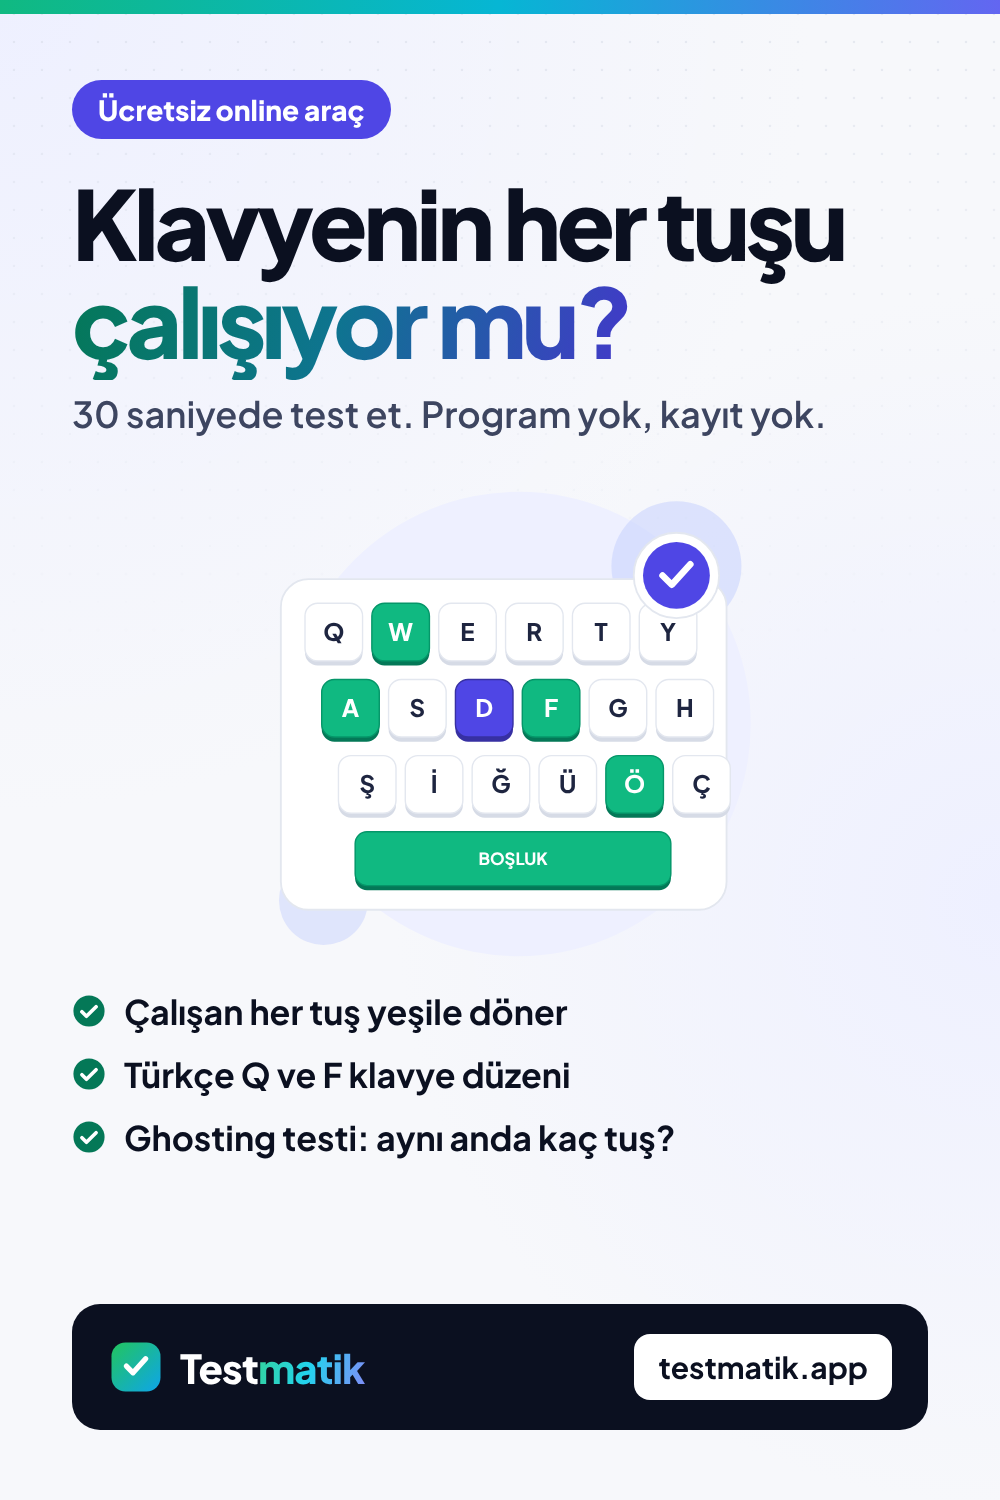
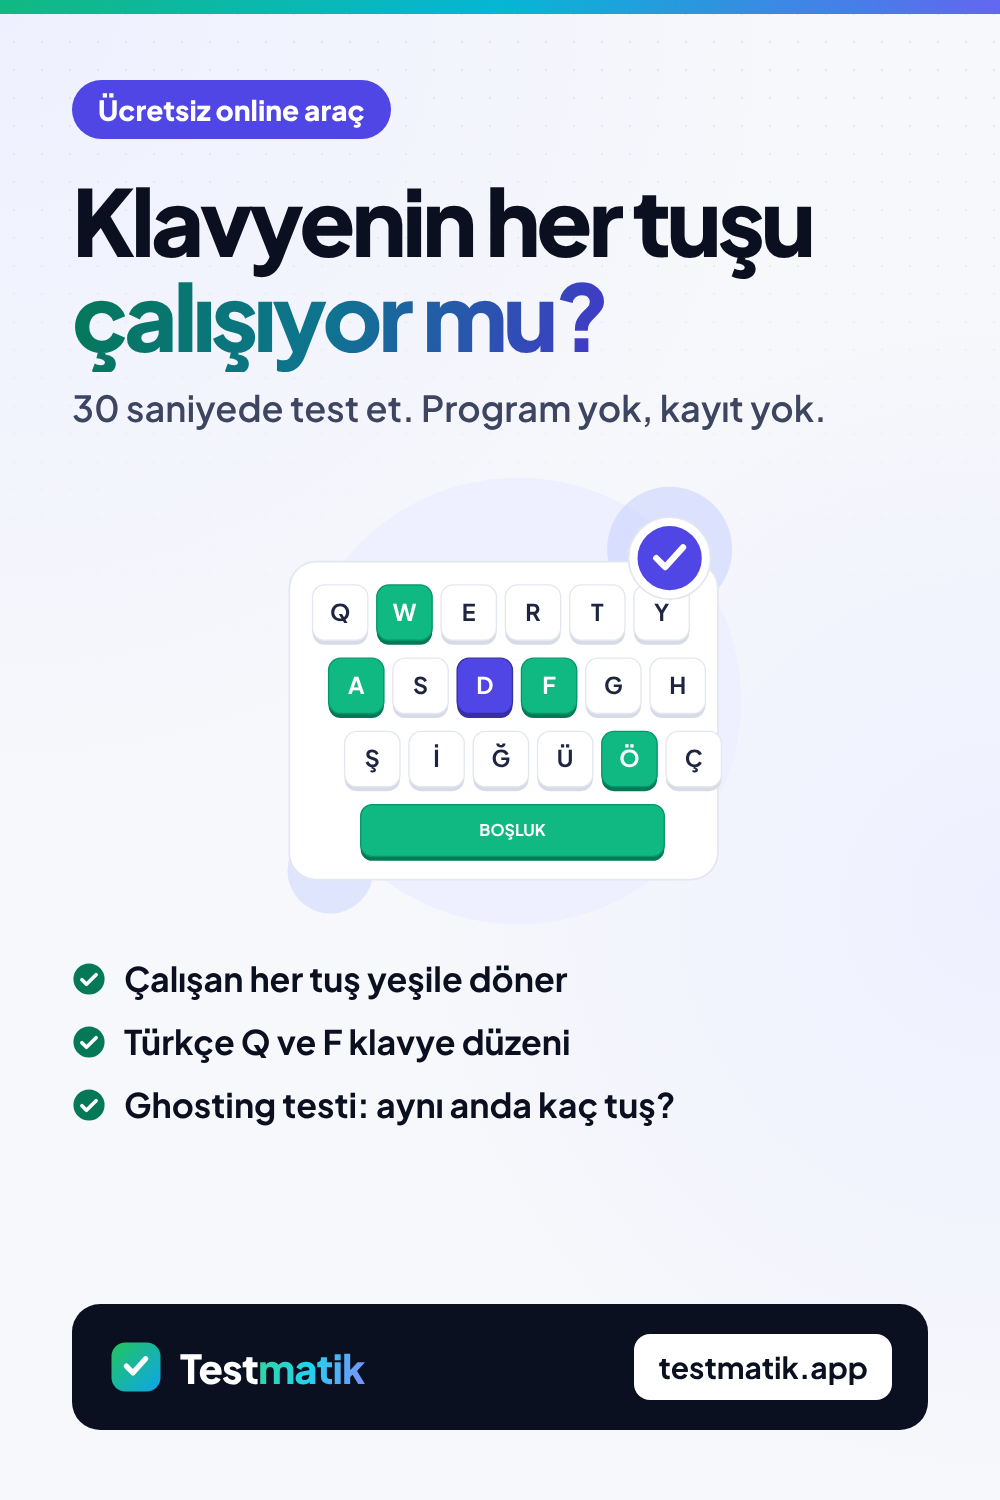
Pinterest: pins for all 6 tools with titles, descriptions, alt text and UTM links
Claude-Session: https://claude.ai/code/session_01Gog3jNsiuLAWFB1zJzLwic

Changed region(s): [[0.062, 0.1227, 0.868, 0.6133], [0.062, 0.644, 0.682, 0.7667]]

diff --git a/marketing/pinterest/render-pins.js b/marketing/pinterest/render-pins.js
@@ -1,13 +1,31 @@
-// Render a 1000x1500 Pinterest pin for the keyboard test.
+// Render 1000x1500 Pinterest pins for every Testmatik tool.
 const { chromium } = require('playwright-core');
 const fs = require('fs');
-const { ILL, T } = require(process.env.ILLUS || './illus');
+const { ILL, T } = require('./illus');
 const FONTS = '/home/user/balloonprime/testmatik/assets/fonts';
-const OUT = __dirname + '/pin-01-klavye-testi.png';
-const c = T.indigo;
+const OUT = '/home/user/balloonprime/marketing/pinterest';
+
+const PINS = [
+  ['pin-01-klavye-testi', 'indigo', 'keyboard', 'Klavyenin her tuşu', 'çalışıyor mu?', '30 saniyede test et. Program yok, kayıt yok.',
+    ['Çalışan her tuş yeşile döner', 'Türkçe Q ve F klavye düzeni', 'Ghosting testi: aynı anda kaç tuş?']],
+  ['pin-02-olu-piksel-testi', 'rose', 'pixel', 'Ekranında ölü piksel', 'var mı?', 'Tam ekran renk testi. Monitör, laptop ve telefon.',
+    ['9 renkle tam ekran kontrol', 'Otomatik mod: 3 saniyede bir renk', 'Sıkışmış piksel onarıcı dahil']],
+  ['pin-03-mikrofon-testi', 'emerald', 'mic', 'Mikrofonun sesini', 'alıyor mu?', 'Saniyeler içinde test et. Kayıt cihazında kalır.',
+    ['Canlı ses seviyesi göstergesi', '5 saniye kaydet, geri dinle', 'Kulaklık ve USB mikrofonlarda çalışır']],
+  ['pin-04-kamera-testi', 'sky', 'camera', 'Web kameran', 'net mi?', 'Gerçek çözünürlüğü ve FPS değerini anında gör.',
+    ['Gerçek çözünürlük: 720p, 1080p, 4K', 'Ölçülen FPS ve kamera adı', 'Fotoğraf çek, cihazına kaydet']],
+  ['pin-05-mouse-testi', 'amber', 'mouse', "Mouse'un", 'çift tıklıyor mu?', 'Arızalı tuşu saniyeler içinde yakala.',
+    ['Çift tıklama (chatter) dedektörü', 'Polling rate (Hz) tahmini', '5 saniyelik CPS testi']],
+  ['pin-06-hoparlor-testi', 'violet', 'speaker', 'Sağ ve sol ses', 'doğru mu çalıyor?', 'Hoparlör ve kulaklık testi. Kurulum yok.',
+    ['Sol, sağ ve iki kanal testi', '20 Hz – 20 kHz frekans taraması', 'İstediğin frekansta ton üret']],
+];
+
 const logo = `<svg width="56" height="56" viewBox="0 0 32 32"><defs><linearGradient id="lg" x1="0" y1="0" x2="1" y2="1"><stop offset="0" stop-color="#22c55e"/><stop offset="1" stop-color="#0ea5e9"/></linearGradient></defs><rect x="2" y="2" width="28" height="28" rx="8" fill="url(#lg)"/><path d="m10.5 15.5 3.8 3.8 7.2-8" fill="none" stroke="#fff" stroke-width="3" stroke-linecap="round" stroke-linejoin="round"/></svg>`;
 const check = `<svg width="34" height="34" viewBox="0 0 24 24"><circle cx="12" cy="12" r="11" fill="#047857"/><path d="m7 12.5 3.2 3.2L17 9" fill="none" stroke="#fff" stroke-width="2.6" stroke-linecap="round" stroke-linejoin="round"/></svg>`;
-const html = `<!doctype html><html><head><meta charset="utf-8"><style>
+
+function html(tone, ill, h1a, h1b, sub, list) {
+  const c = T[tone];
+  return `<!doctype html><html><head><meta charset="utf-8"><style>
 @font-face{font-family:Jakarta;src:url(file://${FONTS}/jakarta-latin.woff2) format("woff2");font-weight:200 800;unicode-range:U+0000-00FF,U+0131,U+2000-206F}
 @font-face{font-family:Jakarta;src:url(file://${FONTS}/jakarta-latin-ext.woff2) format("woff2");font-weight:200 800;unicode-range:U+0100-02BA,U+1E00-1EFF}
 *{margin:0;box-sizing:border-box}
@@ -17,10 +35,11 @@ body{width:1000px;height:1500px;overflow:hidden;font-family:Jakarta;position:rel
 .top{position:absolute;left:0;right:0;top:0;height:14px;background:linear-gradient(90deg,#10b981,#06b6d4,#6366f1)}
 .wrap{position:absolute;inset:80px 72px 70px;display:flex;flex-direction:column}
 .pill{align-self:flex-start;padding:12px 26px;border-radius:99px;background:${c.c};color:#fff;font-weight:800;font-size:28px}
-h1{margin-top:34px;font-size:96px;line-height:1.02;letter-spacing:-.045em;font-weight:800}
+h1{margin-top:34px;font-size:92px;line-height:1.03;letter-spacing:-.045em;font-weight:800}
 h1 span{background:linear-gradient(105deg,#047857,#0e7490 48%,#4338ca);-webkit-background-clip:text;color:transparent}
 .sub{margin-top:22px;font-size:36px;line-height:1.3;color:#3d4560;font-weight:600}
-.art{margin:26px -20px 0;height:520px}
+.art{margin:20px -20px 0;height:500px}
+.art text{font-family:Jakarta!important;font-weight:700}
 .list{display:flex;flex-direction:column;gap:20px;margin-top:6px}
 .list div{display:flex;align-items:center;gap:18px;font-size:34px;font-weight:700}
 .cta{margin-top:auto;display:flex;align-items:center;justify-content:space-between;background:#0b1020;color:#fff;border-radius:28px;padding:30px 36px}
@@ -30,23 +49,24 @@ h1 span{background:linear-gradient(105deg,#047857,#0e7490 48%,#4338ca);-webkit-b
 </style></head><body><div class="bg"></div><div class="dots"></div><div class="top"></div>
 <div class="wrap">
 <span class="pill">Ücretsiz online araç</span>
-<h1>Klavyenin her tuşu <span>çalışıyor mu?</span></h1>
-<p class="sub">30 saniyede test et. Program yok, kayıt yok.</p>
-<svg class="art" viewBox="0 0 560 560" preserveAspectRatio="xMidYMid meet" xmlns="http://www.w3.org/2000/svg">${ILL.keyboard('indigo')}</svg>
-<div class="list">
-<div>${check} Çalışan her tuş yeşile döner</div>
-<div>${check} Türkçe Q ve F klavye düzeni</div>
-<div>${check} Ghosting testi: aynı anda kaç tuş?</div>
-</div>
+<h1>${h1a} <span>${h1b}</span></h1>
+<p class="sub">${sub}</p>
+<svg class="art" viewBox="0 0 560 560" preserveAspectRatio="xMidYMid meet" xmlns="http://www.w3.org/2000/svg">${ILL[ill](tone)}</svg>
+<div class="list">${list.map(t => `<div>${check} ${t}</div>`).join('')}</div>
 <div class="cta"><div class="brand">${logo}<span>Test<b>matik</b></span></div><span class="url">testmatik.app</span></div>
 </div></body></html>`;
+}
+
 (async () => {
   const b = await chromium.launch({ executablePath: '/opt/pw-browsers/chromium-1194/chrome-linux/chrome' });
   const p = await b.newPage({ viewport: { width: 1000, height: 1500 } });
-  fs.writeFileSync(__dirname + '/tmp-pin.html', html);
-  await p.goto('file://' + __dirname + '/tmp-pin.html', { waitUntil: 'load' });
-  await p.waitForTimeout(400);
-  await p.screenshot({ path: OUT });
+  for (const [slug, tone, ill, a, bb, sub, list] of PINS) {
+    fs.writeFileSync(__dirname + '/tmp-pin.html', html(tone, ill, a, bb, sub, list));
+    await p.goto('file://' + __dirname + '/tmp-pin.html', { waitUntil: 'load' });
+    await p.waitForTimeout(300);
+    const h = await p.evaluate(() => document.querySelector('.cta').getBoundingClientRect().top - document.querySelector('.list').getBoundingClientRect().bottom);
+    await p.screenshot({ path: `${OUT}/${slug}.png` });
+    console.log(slug, 'gap above CTA:', Math.round(h));
+  }
   await b.close();
-  console.log('ok');
 })();

diff --git a/marketing/pinterest/PINS.md b/marketing/pinterest/PINS.md
@@ -1,0 +1,152 @@
+# Testmatik – Pinterest pins (6 tools)
+
+All images are 1000 × 1500 px (2:3), in this folder. Every feature line on the images and in the descriptions was checked against what each tool actually does.
+
+**Board for all pins:** Bilgisayar Donanım Testleri ve Çözümleri
+**Board description:**
+```
+Klavye, ekran, mikrofon, kamera, mouse ve hoparlör için ücretsiz online testler ve adım adım çözüm rehberleri. Laptop ve bilgisayar sorunlarını program kurmadan tarayıcıda kontrol et.
+```
+**Posting plan:** 1 pin a day, in the order below, weekday evenings 20:00–22:00 (Türkiye time).
+
+---
+
+## Pin 01 – Klavye Testi
+**Image:** `pin-01-klavye-testi.png`
+**Link:**
+```
+https://testmatik.app/klavye-testi/?utm_source=pinterest&utm_medium=social&utm_campaign=pin01_klavye
+```
+**Title:**
+```
+Klavye Testi: Klavyenin Her Tuşu Çalışıyor mu? Ücretsiz Online Kontrol
+```
+**Description:**
+```
+Klavyende basmayan ya da geç algılanan bir tuş mu var? Ücretsiz online klavye testi ile her tuşu 30 saniyede kontrol et. Çalışan tuşlar ekranda yeşile döner, Türkçe Q ve F klavye düzeni desteklenir ve aynı anda kaç tuşa basılabildiğini görerek ghosting testi yapabilirsin. Laptop, masaüstü, mekanik ve kablosuz klavyelerde çalışır. Program kurmana ya da kayıt olmana gerek yok; test tamamen tarayıcında çalışır.
+```
+**Alt text:**
+```
+Ekran üzerinde Türkçe Q klavye çizimi; W, A, F ve Ö tuşları yeşil, D tuşu mavi. Üstte "Klavyenin her tuşu çalışıyor mu?" başlığı, altta ücretsiz klavye testinin özellikleri ve testmatik.app adresi.
+```
+**Hashtags:** `#klavyetesti #bilgisayaripuçları #laptop`
+
+---
+
+## Pin 02 – Ölü Piksel Testi
+**Image:** `pin-02-olu-piksel-testi.png`
+**Link:**
+```
+https://testmatik.app/olu-piksel-testi/?utm_source=pinterest&utm_medium=social&utm_campaign=pin02_olupiksel
+```
+**Title:**
+```
+Ölü Piksel Testi: Ekranında Ölü Piksel Var mı? Ücretsiz Online Kontrol
+```
+**Description:**
+```
+Yeni ya da ikinci el monitör, laptop veya telefon aldın mı? Ücretsiz ölü piksel testi ile ekranı tam ekran tek renkle doldur ve kusurlu pikselleri kolayca gör. Siyah, beyaz, kırmızı, yeşil, mavi ve daha fazla renk arasında geçiş yap ya da otomatik modu aç. Sıkışmış pikseller için piksel onarıcı da var. Program kurmadan, doğrudan tarayıcında çalışır.
+```
+**Alt text:**
+```
+Siyah ekranlı bir laptop ve büyüteç altında kırmızı renkte tek bir kusurlu piksel. Üstte "Ekranında ölü piksel var mı?" başlığı, altta testin özellikleri ve testmatik.app adresi.
+```
+**Hashtags:** `#ölüpiksel #monitör #ekrantesti`
+
+---
+
+## Pin 03 – Mikrofon Testi
+**Image:** `pin-03-mikrofon-testi.png`
+**Link:**
+```
+https://testmatik.app/mikrofon-testi/?utm_source=pinterest&utm_medium=social&utm_campaign=pin03_mikrofon
+```
+**Title:**
+```
+Mikrofon Testi: Mikrofonun Sesini Alıyor mu? Ücretsiz Online Test
+```
+**Description:**
+```
+Discord, Zoom ya da oyunda sesin gitmiyor mu? Ücretsiz online mikrofon testi ile mikrofonunu saniyeler içinde kontrol et. Canlı ses seviyesi göstergesini izle, 5 saniyelik kayıt alıp sesini geri dinle, birden fazla mikrofonun varsa listeden doğru olanı seç. Laptop, USB, kulaklık ve telefon mikrofonlarında çalışır. Ses kaydın hiçbir sunucuya gönderilmez, test cihazında kalır.
+```
+**Alt text:**
+```
+Ses dalgaları arasında yeşil bir mikrofon çizimi ve onay işareti. Üstte "Mikrofonun sesini alıyor mu?" başlığı, altta testin özellikleri ve testmatik.app adresi.
+```
+**Hashtags:** `#mikrofontesti #discord #bilgisayaripuçları`
+
+---
+
+## Pin 04 – Kamera Testi
+**Image:** `pin-04-kamera-testi.png`
+**Link:**
+```
+https://testmatik.app/kamera-testi/?utm_source=pinterest&utm_medium=social&utm_campaign=pin04_kamera
+```
+**Title:**
+```
+Kamera Testi: Web Kameran Net mi? Çözünürlük ve FPS Kontrolü
+```
+**Description:**
+```
+Görüntülü görüşmeden önce kameranı kontrol et. Ücretsiz online kamera testi, web kameranın gerçek çözünürlüğünü (720p, 1080p, 4K), ölçülen FPS değerini ve kamera adını anında gösterir. Ayna görüntüsünü açıp kapatabilir, fotoğraf çekip cihazına kaydedebilirsin. Laptop ve USB web kameralarında, telefonda da çalışır. Görüntün hiçbir sunucuya gönderilmez.
+```
+**Alt text:**
+```
+Ekranında bir kişi silüeti görünen laptop ve üstünde web kamerası, köşede onay işareti. Üstte "Web kameran net mi?" başlığı, altta testin özellikleri ve testmatik.app adresi.
+```
+**Hashtags:** `#kameratesti #webcam #zoom`
+
+---
+
+## Pin 05 – Mouse Testi
+**Image:** `pin-05-mouse-testi.png`
+**Link:**
+```
+https://testmatik.app/mouse-testi/?utm_source=pinterest&utm_medium=social&utm_campaign=pin05_mouse
+```
+**Title:**
+```
+Mouse Testi: Mouse'un Çift Tıklıyor mu? Ücretsiz Online Kontrol
+```
+**Description:**
+```
+Tek tıklamada iki kez mi tıklıyor? Ücretsiz online mouse testi, çift tıklama (chatter) sorununu saniyeler içinde yakalar. Sol, sağ, orta, geri ve ileri tuşlarını ayrı ayrı test et, tekerleği kontrol et, polling rate (Hz) değerini gör ve 5 saniyelik CPS testiyle tıklama hızını ölç. Oyuncu ve ofis mouse'larında çalışır, kurulum gerektirmez.
+```
+**Alt text:**
+```
+Sol tuşu turuncu renkte vurgulanmış bir mouse çizimi; yanında "2× 14ms" ve "1000 Hz" etiketleri. Üstte "Mouse'un çift tıklıyor mu?" başlığı, altta testin özellikleri ve testmatik.app adresi.
+```
+**Hashtags:** `#mousetesti #oyuncu #bilgisayaripuçları`
+
+---
+
+## Pin 06 – Hoparlör Testi
+**Image:** `pin-06-hoparlor-testi.png`
+**Link:**
+```
+https://testmatik.app/hoparlor-testi/?utm_source=pinterest&utm_medium=social&utm_campaign=pin06_hoparlor
+```
+**Title:**
+```
+Hoparlör ve Kulaklık Testi: Sağ ve Sol Ses Doğru mu Çalıyor?
+```
+**Description:**
+```
+Kulaklığın ya da hoparlörün tek taraftan mı ses veriyor? Ücretsiz online hoparlör testi ile sol, sağ ve iki kanalı ayrı ayrı dinle. 20 Hz'den 20 kHz'e frekans taramasıyla cızırtıyı yakala ya da istediğin frekansta ton üret. Kulaklıkla test ederken sesi düşük seviyede başlat. Laptop, Bluetooth ve kablolu kulaklıklarda çalışır, kurulum gerektirmez.
+```
+**Alt text:**
+```
+Mor renkli sol ve sağ hoparlör çizimi, aralarında ses dalgaları ve "20 Hz – 20 kHz" etiketi. Üstte "Sağ ve sol ses doğru mu çalıyor?" başlığı, altta testin özellikleri ve testmatik.app adresi.
+```
+**Hashtags:** `#kulakliktesti #hoparlör #sestesti`
+
+---
+
+## Before the first pin
+1. Use a free Pinterest **Business** account (language Türkçe, country Türkiye).
+2. **Claim the website:** Settings → Claimed accounts → Websites → `testmatik.app` → "HTML tag". Send the `p:domain_verify` code and it will be added to the theme.
+3. Create the board above and upload the pins one by one.
+
+## Track results
+In GA4, go to Reports → Acquisition → Traffic acquisition and set the dimension to "Session campaign". Each pin shows up separately (`pin01_klavye` … `pin06_hoparlor`).
